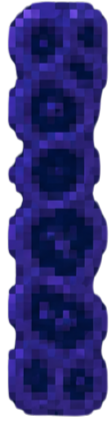
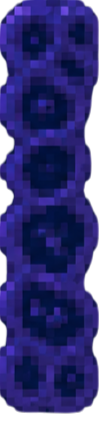
Cleaned up the progarmme and started on the ennimie

diff --git a/Game1.cs b/Game1.cs
@@ -78,9 +78,9 @@ namespace Final_Project
 
             rockManager.DrawCount = 6;
             rockManager.MediumRatio = 0.8f;
-            // use chunk manager to create content around the player
+            
             chunkManager = new ChunkManager(rockManager, foodManager, 1024, 1);
-            // ensure initial chunks around the player are populated
+            
             chunkManager.Update(cell.Position);
 
             particleManager = new ParticleManager();
@@ -104,24 +104,20 @@ namespace Final_Project
             if (rockManager != null && ks.IsKeyDown(Keys.R) && !prevKeyboardState.IsKeyDown(Keys.R))
             {
                 rockManager.GenerateRandom();
-                // regenerate food so it avoids newly placed rocks
+                
                 foodManager.GenerateInitial(rockManager.Rocks);
             }
 
-            // update chunks around the player
+
             chunkManager.Update(cell.Position);
 
-            // resolve collisions between cell and rocks from loaded chunks
             cell.ResolveCollisions(chunkManager.GetRocks());
 
-            // update particles
             particleManager.Update(gameTime);
 
-            // check for eating food: if the cell overlaps a food by a small threshold, remove it and spawn particles
             var foodsList = new List<Food>(chunkManager.GetFoods());
-            float eatThreshold = 4f; // pixels of penetration required to count as eaten
+            float eatThreshold = 4f; 
 
-            // compute cell circle
             var cb = cell.Bounds;
             Vector2 cCenter = cell.Position + new Vector2(cb.Width / 2f, cb.Height / 2f);
             float cRadius = Math.Max(cb.Width, cb.Height) * 0.5f;
@@ -129,7 +125,6 @@ namespace Final_Project
             foreach (var f in foodsList)
             {
                 var fb = f.Bounds;
-                // closest point on food rect to circle center
                 float closestX = MathHelper.Clamp(cCenter.X, fb.Left, fb.Right);
                 float closestY = MathHelper.Clamp(cCenter.Y, fb.Top, fb.Bottom);
                 Vector2 closest = new Vector2(closestX, closestY);
@@ -137,13 +132,12 @@ namespace Final_Project
                 float penetration = cRadius - dist;
                 if (penetration >= eatThreshold)
                 {
-                    // spawn particles at food center
                     Vector2 foodCenter = new Vector2(fb.X + fb.Width / 2f, fb.Y + fb.Height / 2f);
                     int count = 6 + f.Level * 4;
                     Color col = f.Level == 1 ? Color.LimeGreen : Color.Gold;
                     particleManager.SpawnAt(foodCenter, count, col, 3f);
 
-                    // remove the food from its chunk
+                    
                     chunkManager.RemoveFood(f);
                 }
             }
@@ -160,18 +154,16 @@ namespace Final_Project
            
             GraphicsDevice.Clear(new Color(2, 13, 58));
 
-            // simple camera: center screen on cell.Position
+            
             var vp = GraphicsDevice.Viewport;
             var camera = Matrix.CreateTranslation(new Vector3(-cell.Position + new Vector2(vp.Width / 2f, vp.Height / 2f), 0f));
 
             _spriteBatch.Begin(transformMatrix: camera);
-            // draw rocks and foods from loaded chunks
             foreach (var r in chunkManager.GetRocks()) r.Draw(_spriteBatch);
             cell.Draw(_spriteBatch);
             foreach (var f in chunkManager.GetFoods()) f.Draw(_spriteBatch, pixel);
             particleManager.Draw(_spriteBatch, pixel);
             _spriteBatch.End();
-            // TODO: Add your drawing code here
 
             base.Draw(gameTime);
         }

diff --git a/Cell.cs b/Cell.cs
@@ -66,10 +66,8 @@ namespace Final_Project
             nucleus.Update(gameTime);
         }
 
-        // Resolve collisions between the circular cell and a set of rectangular obstacles (rocks).
         public void ResolveCollisions(IEnumerable<RockManager.Rock> obstacles)
         {
-            // compute circle center and radius based on current sprite and scale
             var tex = sprites[spriteIndex];
             float w = tex.Width * Scale;
             float h = tex.Height * Scale;
@@ -80,7 +78,6 @@ namespace Final_Project
             {
                 var rect = obs.Bounds;
 
-                // find closest point on AABB to circle center
                 float closestX = MathHelper.Clamp(center.X, rect.Left, rect.Right);
                 float closestY = MathHelper.Clamp(center.Y, rect.Top, rect.Bottom);
                 Vector2 closest = new Vector2(closestX, closestY);
@@ -95,11 +92,8 @@ namespace Final_Project
                         float dist = (float)Math.Sqrt(distSq);
                         float overlap = radius - dist;
                         Vector2 push = diff / dist * overlap;
-                        // move position by push (since Position is top-left, shift by push)
                         Position += push;
-                        // update center for subsequent checks
                         center += push;
-                        // optionally damp velocity to avoid sticking
                         if (Vector2.Dot(Velocity, push) > 0)
                         {
                             Velocity = Vector2.Zero;
@@ -107,13 +101,11 @@ namespace Final_Project
                     }
                     else
                     {
-                        // center lies exactly on closest point (inside rect). Push out along smallest axis
                         float leftOverlap = center.X - rect.Left;
                         float rightOverlap = rect.Right - center.X;
                         float topOverlap = center.Y - rect.Top;
                         float bottomOverlap = rect.Bottom - center.Y;
 
-                        // find minimum penetration direction
                         float min = Math.Min(Math.Min(leftOverlap, rightOverlap), Math.Min(topOverlap, bottomOverlap));
                         Vector2 push = Vector2.Zero;
                         if (min == leftOverlap) push = new Vector2(radius - leftOverlap, 0);

diff --git a/FoodManager.cs b/FoodManager.cs
@@ -29,7 +29,7 @@ namespace Final_Project
 
         public void LoadTextures(Func<int, string> resolver, Microsoft.Xna.Framework.Content.ContentManager content)
         {
-            // resolver should return the asset key for level n (n >=2)
+            
             for (int i = 2; i <= 4; i++)
             {
                 string key = resolver(i);
@@ -44,19 +44,19 @@ namespace Final_Project
             }
         }
 
-        // now accepts an optional list of obstacle rocks to avoid when placing food
+        
         public void GenerateInitial(IEnumerable<RockManager.Rock>? obstacles = null)
         {
-            // generate within the full viewport and replace Foods
+            
             var vp = graphics.Viewport;
             Foods = GenerateIn(new Rectangle(0, 0, vp.Width, vp.Height), obstacles, TotalCount);
         }
 
-        // generate food inside arbitrary area (world coords). Returns list and does not modify internal Foods.
+       
         public List<Food> GenerateIn(Rectangle area, IEnumerable<RockManager.Rock>? obstacles = null, int count = -1)
         {
             var result = new List<Food>();
-            // normalize weights
+            
             float sum = 0f;
             for (int i = 1; i <= 4; i++) sum += Weights[i];
 
@@ -141,7 +141,6 @@ namespace Final_Project
 
         public void Update(GameTime gameTime)
         {
-            // for now food is static
         }
 
         public void Draw(SpriteBatch sb, Texture2D pixel)

diff --git a/RockManager.cs b/RockManager.cs
@@ -62,12 +62,12 @@ namespace Final_Project
             Rocks.AddRange(generated);
         }
 
-        // Generate rocks inside an arbitrary area (world coordinates). Returns a list and does not modify internal Rocks.
+        
         public List<Rock> GenerateRocksIn(Rectangle area)
         {
             var result = new List<Rock>();
             int attemptsLimit = 200;
-            int padding = 4; // small spacing so textures don't touch
+            int padding = 4; 
 
             for (int i = 0; i < DrawCount; i++)
             {
@@ -86,7 +86,6 @@ namespace Final_Project
 
                 var tex = source[rng.Next(source.Count)];
 
-                // scaled size used for placement / bounds
                 int scaledW = Math.Max(1, (int)(tex.Width * TextureScale));
                 int scaledH = Math.Max(1, (int)(tex.Height * TextureScale));
 
